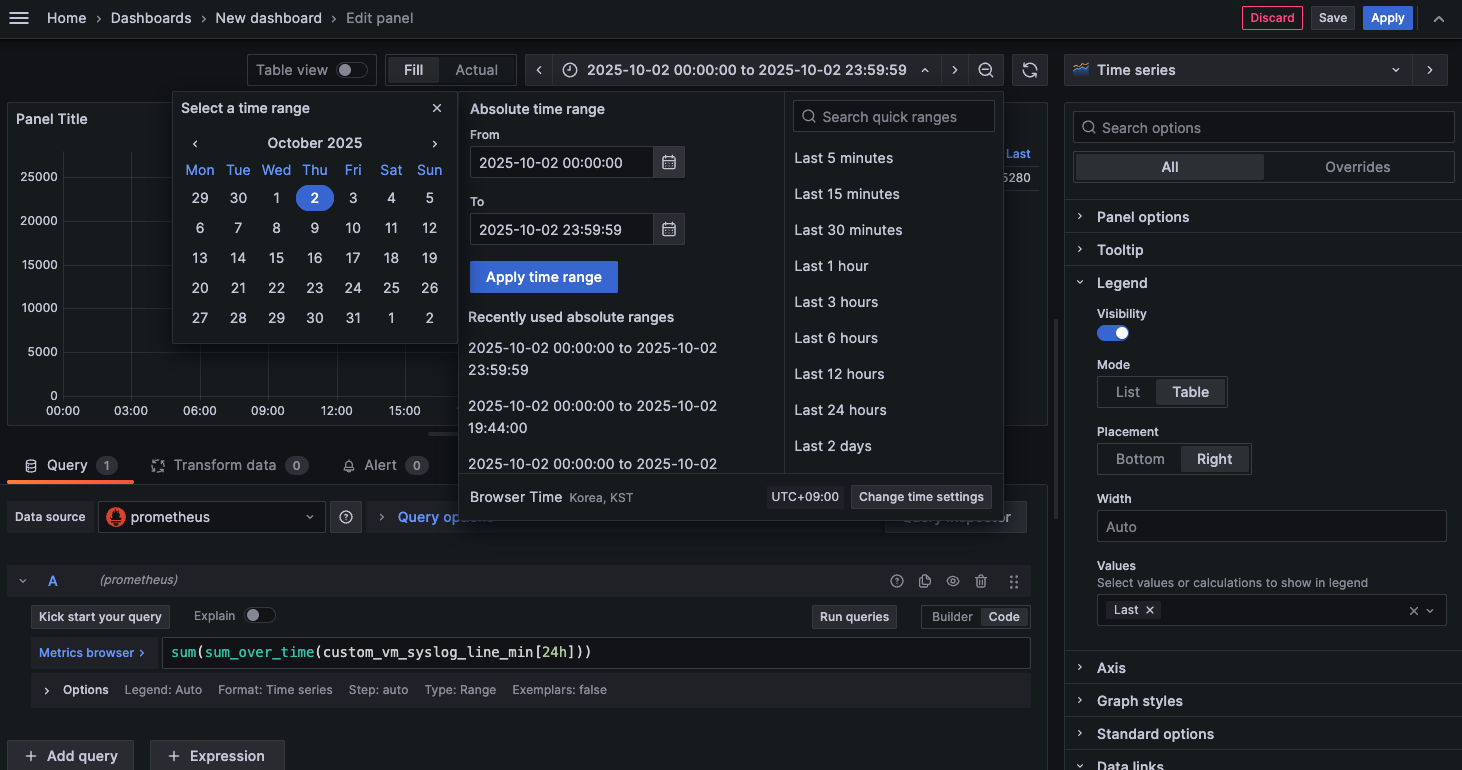
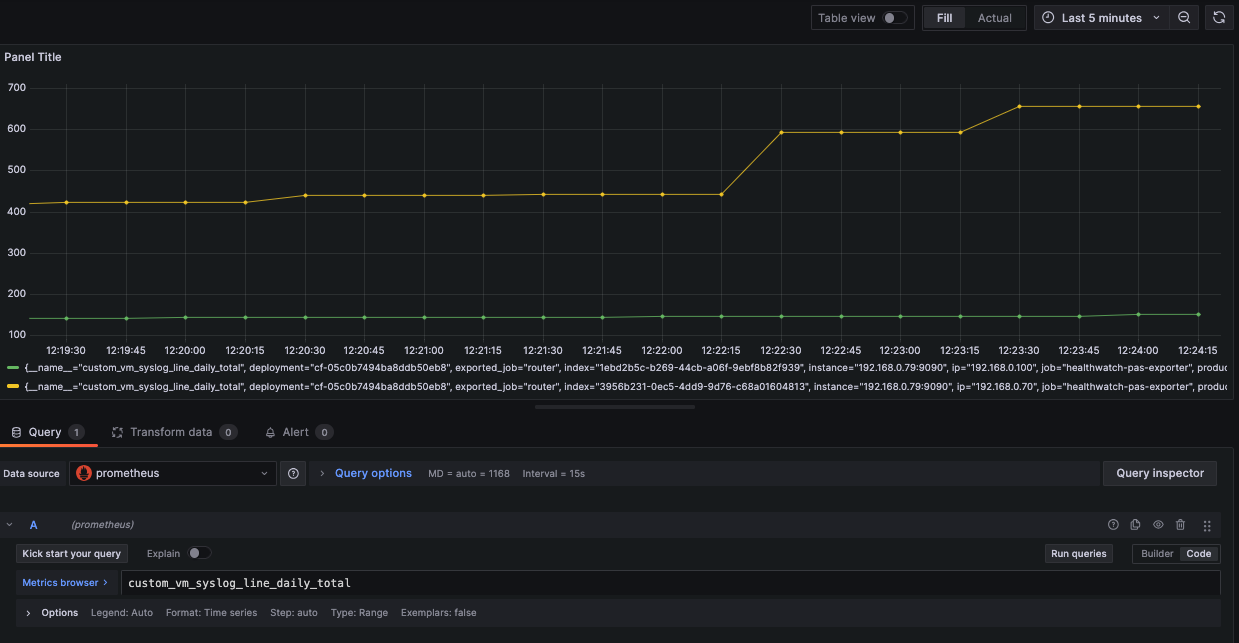
add a new daily total

diff --git a/bosh-addon-custom-syslog-counter.md b/bosh-addon-custom-syslog-counter.md
@@ -33,7 +33,7 @@ addons:
         JOB_CONFIG_PATH=/var/vcap/jobs/custom-syslog-counter/config
         LOG_PATH=/var/vcap/sys/log/custom-syslog-counter
         if [ -d $JOB_CONFIG_PATH ]; then
-            rm -rf $JOB_CONFIG_PATH
+          rm -rf $JOB_CONFIG_PATH
         fi
         mkdir -p $JOB_CONFIG_PATH
         mkdir -p $LOG_PATH
@@ -43,28 +43,53 @@ addons:
         #!/bin/bash
         set -e
         JOB_CONFIG_PATH=/var/vcap/jobs/custom-syslog-counter/config
-        ##                                               #<===== 4) customize filtering and counting logic below. 
+        ##                                               #<===== 4) customize filtering and counting logic below.
         ##                                                          make sure to escape any $ sign
-        ## SEARCH_BY_MIN=\$(date +"%Y-%m-%dT%H:%M")
+
+        ## measure  custom_vm_syslog_line_min
+        # SEARCH_BY_MIN=\$(date +"%Y-%m-%dT%H:%M")
         SEARCH_BY_MIN=\$(date +"%Y-%m-%dT%H:%M" --date "1 minute ago") #<===== to make sure all logs to be written to disk and then count. adjust the delayed time depending on system's load.
-        line_count=\$(find /var/vcap/sys/log/gorouter -name "*.log" | xargs grep -a "\$SEARCH_BY_MIN" | wc -l) 
+        line_count=\$(find /var/vcap/sys/log/gorouter -name "*.log" | xargs grep -a "\$SEARCH_BY_MIN" | wc -l)
         # line_count=\$(find /var/vcap/sys/log/gorouter -name "*.log" | xargs grep -a "\$SEARCH_BY_MIN" | grep "vcap_request_id" | wc -l)
+        echo "custom_vm_syslog_line_min: \$SEARCH_BY_MIN \$line_count"
+
+        ## measure custom_vm_syslog_line_daily_total
+        CURRENT_DATE=\$(date +"%Y-%m-%d")
+        if [ ! -f \$JOB_CONFIG_PATH/daily_total ]; then
+          echo "Create file \$JOB_CONFIG_PATH/daily_total"
+          echo "\$CURRENT_DATE 0" > \$JOB_CONFIG_PATH/daily_total
+        fi
+        date_from_file=\$(cat \$JOB_CONFIG_PATH/daily_total | awk '{print \$1}')
+        if [ "\$date_from_file" != "\$CURRENT_DATE" ]; then
+          echo "New date, Reset metric \$JOB_CONFIG_PATH/daily_total"
+          echo "\$CURRENT_DATE 0" > \$JOB_CONFIG_PATH/daily_total
+        fi
+        current_total=\$(cat \$JOB_CONFIG_PATH/daily_total | awk '{print \$2}')
+        if [ "\$current_total" == "" ]; then
+          echo "Empty metric, Reset metric \$JOB_CONFIG_PATH/daily_total"
+          current_total="0"
+        fi
+        daily_total=\$( echo \$line_count  | awk -vtotal=\$current_total '{total += \$1}; END{print total}')
+        echo "\$CURRENT_DATE \$daily_total" > \$JOB_CONFIG_PATH/daily_total
+        echo "daily_total: \$CURRENT_DATE \$daily_total"
 
         echo "# HELP custom_vm_syslog_line_min counted under /var/vcap/sys/log" > \$JOB_CONFIG_PATH/metrics
         echo "# TYPE custom_vm_syslog_line_min gauge" >> \$JOB_CONFIG_PATH/metrics
         echo "custom_vm_syslog_line_min \$line_count" >> \$JOB_CONFIG_PATH/metrics
-        echo "run by cron or manual: \$SEARCH_BY_MIN \$line_count"
-        
+        echo "# HELP custom_vm_syslog_line_daily_total" >> \$JOB_CONFIG_PATH/metrics
+        echo "# TYPE custom_vm_syslog_line_daily_total gauge" >> \$JOB_CONFIG_PATH/metrics
+        echo "custom_vm_syslog_line_daily_total \$daily_total" >> \$JOB_CONFIG_PATH/metrics
+
         ## run server serving syslog count metric.
         WEB_PROCESS=\$(ps -ef | grep "http.server" | grep -v "grep" | wc -l)
         if [ \$WEB_PROCESS -eq 0 ]; then
-           echo "Not found a python3 web server. starting server ..."
-           set -e
-           nohup python3 -m http.server --directory $JOB_CONFIG_PATH  10000 >> $LOG_PATH/custom_syslog_counter.log 2>&1 &
+        echo "Not found a python3 web server. starting server ..."
+        set -e
+        nohup python3 -m http.server --directory $JOB_CONFIG_PATH  10000 >> $LOG_PATH/custom_syslog_counter.log 2>&1 &
         fi
 
         EOF
-        
+
         chmod +x $JOB_CONFIG_PATH/custom_syslog_counter.sh
         ## test run
         $JOB_CONFIG_PATH/custom_syslog_counter.sh
@@ -157,12 +182,20 @@ router/3956b231-0ec5-4dd9-9d76-c68a01604813:~# cat /var/vcap/jobs/custom-syslog-
 #!/bin/bash
 set -e
 JOB_CONFIG_PATH=/var/vcap/jobs/custom-syslog-counter/config
-SEARCH_KEYWORD=$(date +"%Y-%m-%dT%H:%M" --date "1 minute ago")
-line_count=$(find /var/vcap/sys/log/gorouter -name "*.log" | xargs grep -a "$SEARCH_KEYWORD" | wc -l)
+## measure  custom_vm_syslog_line_min
+SEARCH_BY_MIN=$(date +"%Y-%m-%dT%H:%M" --date "1 minute ago") #<===== to make sure all logs to be written to disk and then count. adjust the delayed time depending on system's load.
+line_count=$(find /var/vcap/sys/log/gorouter -name "*.log" | xargs grep -a "$SEARCH_BY_MIN" | wc -l)
+
+## measure custom_vm_syslog_line_daily_total
+CURRENT_DATE=$(date +"%Y-%m-%d")
+daily_total=$( echo $line_count  | awk -vtotal=$current_total '{total += $1}; END{print total}')
+
 echo "# HELP custom_vm_syslog_line_min counted under /var/vcap/sys/log" > $JOB_CONFIG_PATH/metrics
 echo "# TYPE custom_vm_syslog_line_min gauge" >> $JOB_CONFIG_PATH/metrics
 echo "custom_vm_syslog_line_min $line_count" >> $JOB_CONFIG_PATH/metrics
-echo "$SEARCH_KEYWORD $line_count"
+echo "# HELP custom_vm_syslog_line_daily_total" >> $JOB_CONFIG_PATH/metrics
+echo "# TYPE custom_vm_syslog_line_daily_total gauge" >> $JOB_CONFIG_PATH/metrics
+echo "custom_vm_syslog_line_daily_total $daily_total" >> $JOB_CONFIG_PATH/metrics
 ```
 
 note that system crontab configuration is not shown by crontab -l command (user crontab command)
@@ -175,7 +208,10 @@ router/3956b231-0ec5-4dd9-9d76-c68a01604813:~# cat  /etc/cron.d/custom_syslog_co
 router/3956b231-0ec5-4dd9-9d76-c68a01604813:~# cat /var/vcap/jobs/custom-syslog-counter/config/metrics
 # HELP custom_vm_syslog_line_min counted under /var/vcap/sys/log
 # TYPE custom_vm_syslog_line_min gauge
-custom_vm_syslog_line_min 145
+custom_vm_syslog_line_min 1
+# HELP custom_vm_syslog_line_daily_total
+# TYPE custom_vm_syslog_line_daily_total gauge
+custom_vm_syslog_line_daily_total 146
 ```
 
 ```
@@ -237,10 +273,15 @@ scrape_targets_total 7                   #<===== it is increased from 6 to 7 in 
 #### check logs
  tail -f /var/vcap/sys/log/custom-syslog-counter/custom_syslog_counter.log
 ``` 
-run by cron or manual: 2025-09-29T10:28 1        #<=====  measuring count by cron every 1 minute
+custom_vm_syslog_line_min: 2025-09-29T10:28 1        #<=====  measuring count by cron every 1 minute
+daily_total: 2025-09-29 143
 127.0.0.1 - - [29/Sep/2025 10:30:04] "GET /metrics HTTP/1.1" 200 -  #<===== scraped by prometheus 
-run by cron or manual: 2025-09-29T10:29 1
+custom_vm_syslog_line_min: 2025-09-29T10:29 1
+daily_total: 2025-09-29 144
 127.0.0.1 - - [29/Sep/2025 10:31:04] "GET /metrics HTTP/1.1" 200 -
+
+
+
 ```
 
 
@@ -265,8 +306,21 @@ sum(custom_vm_syslog_line_min)
 
 ## Calculate sum of all values during a specific period across of all instances
 
+### [method 1 - recommended] use `custom_vm_syslog_line_daily_total` metric
+On calculating `custom_vm_syslog_line_min` every minute, the script add it up into `custom_vm_syslog_line_daily_total` for the day. it will reset on next day midnight with system time (GMT+0). so the total generated lines for the day will be the last value of `custom_vm_syslog_line_daily_total` metric for the day.
 
-## [method 1 - recommended] calculates from custom_syslog_counter log.
+```
+{__name__="custom_vm_syslog_line_daily_total", deployment="cf-05c0b7494ba8ddb50eb8", exported_job="router", index="1ebd2b5c-b269-44cb-a06f-9ebf8b82f939", instance="192.168.0.79:9090", ip="192.168.0.100", job="healthwatch-pas-exporter", product="VMware Tanzu Application Service", scrape_instance_group="pas-exporter-gauge", source_id="custom_syslog_counter", system_domain="sys.lab.pcfdemo.net"}
+```
+if you want to summarize all metrics among instances, use following promql:
+```
+sum(custom_vm_syslog_line_daily_total)
+```
+
+![image](./bosh-addon-custom-syslog-counter3.png)
+
+
+### [method 2 ] calculates daily total from custom_syslog_counter log.
 each custom_syslog_counter process logs it's metric to log file every 1 minute. 
 
 tail -f /var/vcap/sys/log/custom-syslog-counter/custom_syslog_counter.log
@@ -331,8 +385,6 @@ sum(sum_over_time(custom_vm_syslog_line_min[24h]))
 - > from `Values` drop down list, select `Last`
 the `last` value is the `total` of all values during the period. and it will be displayed on `legend` area as table with following configuration:
 
-![image](./bosh-addon-custom-syslog-counter3.png)
-![image](./bosh-addon-custom-syslog-counter4.png)
 
 
 ## VM resource consumption
